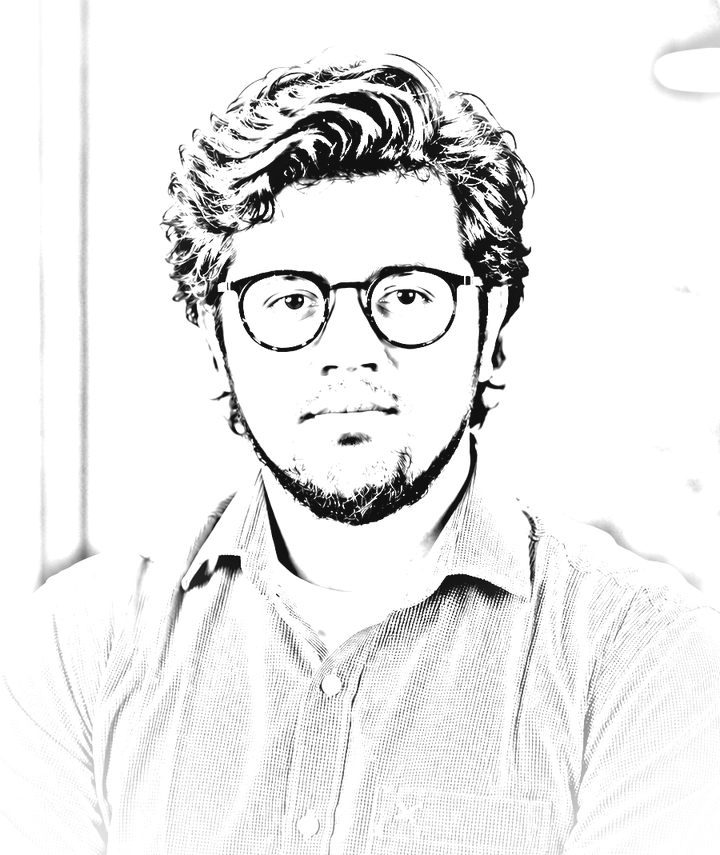
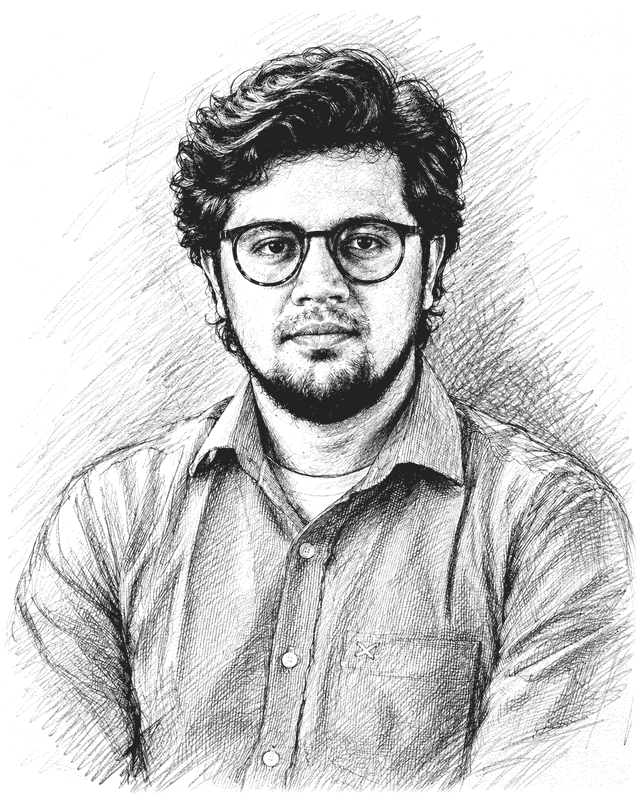
Use the hand-drawn portrait and give the hero the full first screen
The drawing is keyed onto transparency so it sits on the paper unframed;
on the dark palette it gets its own sheet rather than being inverted,
which turned the face into a negative.

The hero now fills the viewport below the nav and widens to 6xl, so the
statement owns the first screen and Experience always starts below the
fold. Body sections keep the narrower 4xl reading measure.

diff --git a/components/Hero.tsx b/components/Hero.tsx
@@ -9,13 +9,22 @@ export function Hero() {
   const lastLine = lines.length - 1;
 
   return (
-    <section id="top" aria-labelledby="name-heading" className="pt-10 pb-6 sm:pt-16 lg:pt-20">
-      <div className="grid gap-8 lg:grid-cols-[minmax(0,1fr)_auto] lg:items-start lg:gap-12">
+    // Fills the viewport below the 3.5rem nav, so Experience always starts
+    // below the fold and the statement gets the first screen to itself.
+    <section
+      id="top"
+      aria-labelledby="name-heading"
+      className="flex min-h-[calc(100svh-3.5rem)] items-center py-8 sm:py-12 lg:py-16"
+    >
+      <div className="mx-auto grid w-full max-w-6xl gap-7 px-5 sm:gap-10 sm:px-8 lg:grid-cols-[minmax(0,1fr)_auto] lg:items-center lg:gap-16">
         {/* Statement */}
         <div className="min-w-0 lg:order-1">
           <Reveal>
             <p className="flex items-center gap-2 text-xs uppercase tracking-[0.18em] text-ink-faint">
-              <span className="h-1.5 w-1.5 shrink-0 rounded-full bg-teal" aria-hidden="true" />
+              <span
+                className="h-1.5 w-1.5 shrink-0 rounded-full bg-teal"
+                aria-hidden="true"
+              />
               {profile.status}
             </p>
           </Reveal>
@@ -23,7 +32,7 @@ export function Hero() {
           <Reveal delay={0.08}>
             <h1
               id="name-heading"
-              className="mt-6 font-serif text-6xl font-bold leading-[0.9] tracking-tight sm:text-7xl lg:text-8xl"
+              className="mt-5 font-serif text-5xl font-bold leading-[0.92] tracking-tight sm:text-8xl sm:leading-[0.9] lg:text-9xl"
             >
               {/* The visible heading is the statement; the name lives in the
                   sticky nav. Screen readers and crawlers still get both. */}
@@ -40,7 +49,7 @@ export function Hero() {
           </Reveal>
 
           <Reveal delay={0.14}>
-            <p className="mt-7 max-w-xl text-base leading-relaxed text-ink-soft sm:text-lg">
+            <p className="mt-6 max-w-xl text-base leading-relaxed text-ink-soft sm:mt-8 sm:text-xl">
               {profile.supportingLine}
             </p>
             <p className="mt-3 flex items-center gap-1.5 text-sm text-ink-faint">
@@ -50,7 +59,7 @@ export function Hero() {
           </Reveal>
 
           <Reveal delay={0.2}>
-            <div className="mt-8 flex flex-wrap items-center gap-2.5">
+            <div className="mt-7 flex flex-wrap items-center gap-2.5 sm:mt-8">
               <a
                 href="#contact"
                 className="group inline-flex items-center gap-2 rounded-full bg-teal px-5 py-2.5 text-sm font-medium text-on-teal transition-colors hover:bg-teal-strong"
@@ -77,29 +86,32 @@ export function Hero() {
 
         {/* Portrait + proof. Sits first on mobile so the reader meets the face
             before the statement; returns to the right-hand column at lg. */}
-        <div className="order-first lg:order-2 lg:w-64">
+        <div className="order-first lg:order-2 lg:w-80">
           <Reveal delay={0.06}>
             <Image
               src={profile.sketch}
               alt={`Portrait of ${profile.name}`}
-              // Line art on transparency — no frame, no crop. `portrait-ink`
-              // inverts the ink in dark mode so it stays visible.
-              width={720}
-              height={855}
-              sizes="(min-width: 1024px) 256px, 128px"
+              // A pencil drawing keyed onto transparency, so it sits on the
+              // paper with no frame. `portrait-ink` gives it a paper card on
+              // the dark palette — inverting it would read as a photo negative.
+              width={640}
+              height={799}
+              sizes="(min-width: 1024px) 320px, 160px"
               priority
-              className="portrait-ink h-36 w-auto lg:h-72"
+              className="portrait-ink h-28 w-auto sm:h-40 lg:h-96"
             />
           </Reveal>
 
           <Reveal delay={0.24}>
-            <dl className="mt-6 grid grid-cols-3 gap-x-4 border-t border-rule pt-5 lg:mt-7">
+            <dl className="mt-5 grid grid-cols-3 gap-x-4 border-t border-rule pt-4 lg:mt-7 lg:pt-5">
               {disciplines.map((d) => (
                 <div key={d.name}>
                   <dt className="font-serif text-lg font-bold tracking-tight sm:text-xl">
                     {d.name}
                   </dt>
-                  <dd className="mt-1 text-xs leading-snug text-ink-faint">{d.detail}</dd>
+                  <dd className="mt-1 text-xs leading-snug text-ink-faint">
+                    {d.detail}
+                  </dd>
                 </div>
               ))}
             </dl>

diff --git a/components/Section.tsx b/components/Section.tsx
@@ -14,21 +14,27 @@ type SectionProps = {
  */
 export function Section({ id, title, icon, children }: SectionProps) {
   return (
-    <section id={id} aria-labelledby={`${id}-heading`} className="scroll-mt-24 py-14 sm:py-20">
-      <div className="mb-8 flex items-center gap-3 border-b border-rule pb-3">
-        {icon ? (
-          <span className="text-teal" aria-hidden="true">
-            {icon}
-          </span>
-        ) : null}
-        <h2
-          id={`${id}-heading`}
-          className="font-serif text-2xl font-semibold tracking-tight sm:text-3xl"
-        >
-          {title}
-        </h2>
+    <section
+      id={id}
+      aria-labelledby={`${id}-heading`}
+      className="scroll-mt-24 py-14 sm:py-20"
+    >
+      <div className="mx-auto w-full max-w-4xl px-5 sm:px-8">
+        <div className="mb-8 flex items-center gap-3 border-b border-rule pb-3">
+          {icon ? (
+            <span className="text-teal" aria-hidden="true">
+              {icon}
+            </span>
+          ) : null}
+          <h2
+            id={`${id}-heading`}
+            className="font-serif text-2xl font-semibold tracking-tight sm:text-3xl"
+          >
+            {title}
+          </h2>
+        </div>
+        {children}
       </div>
-      {children}
     </section>
   );
 }

diff --git a/app/globals.css b/app/globals.css
@@ -142,11 +142,14 @@ body {
   }
 }
 
-/* The hero portrait is near-black line art on transparency, so on the dark
-   palette it has to flip to light ink. Inverting alpha-only artwork is safe —
-   there is no background to turn white. */
+/* The hero portrait is graphite line art keyed onto transparency. On the light
+   palette it sits straight on the paper. On the dark palette it gets its own
+   sheet of paper instead of being inverted — inverting a drawn face turns it
+   into a photo negative, which reads as uncanny rather than as chalk. */
 :root[data-theme="dark"] .portrait-ink {
-  filter: invert(1);
+  background-color: #efece4;
+  border-radius: 0.75rem;
+  padding: 0.5rem;
 }
 
 /* Print: strip the chrome so Cmd-P yields a clean one-page résumé. */

diff --git a/components/Nav.tsx b/components/Nav.tsx
@@ -40,7 +40,7 @@ export function Nav() {
     <header className="no-print sticky top-0 z-50 border-b border-rule bg-paper/85 backdrop-blur-md">
       <nav
         aria-label="Section navigation"
-        className="mx-auto flex h-14 max-w-4xl items-center justify-between gap-4 px-5 sm:px-8"
+        className="mx-auto flex h-14 max-w-6xl items-center justify-between gap-4 px-5 sm:px-8"
       >
         <a
           href="#top"

diff --git a/app/page.tsx b/app/page.tsx
@@ -21,7 +21,7 @@ export default function Home() {
 
       <Nav />
 
-      <main id="main" className="mx-auto w-full max-w-4xl flex-1 px-5 sm:px-8">
+      <main id="main" className="w-full flex-1">
         <Hero />
         <Experience />
         <Writing />
